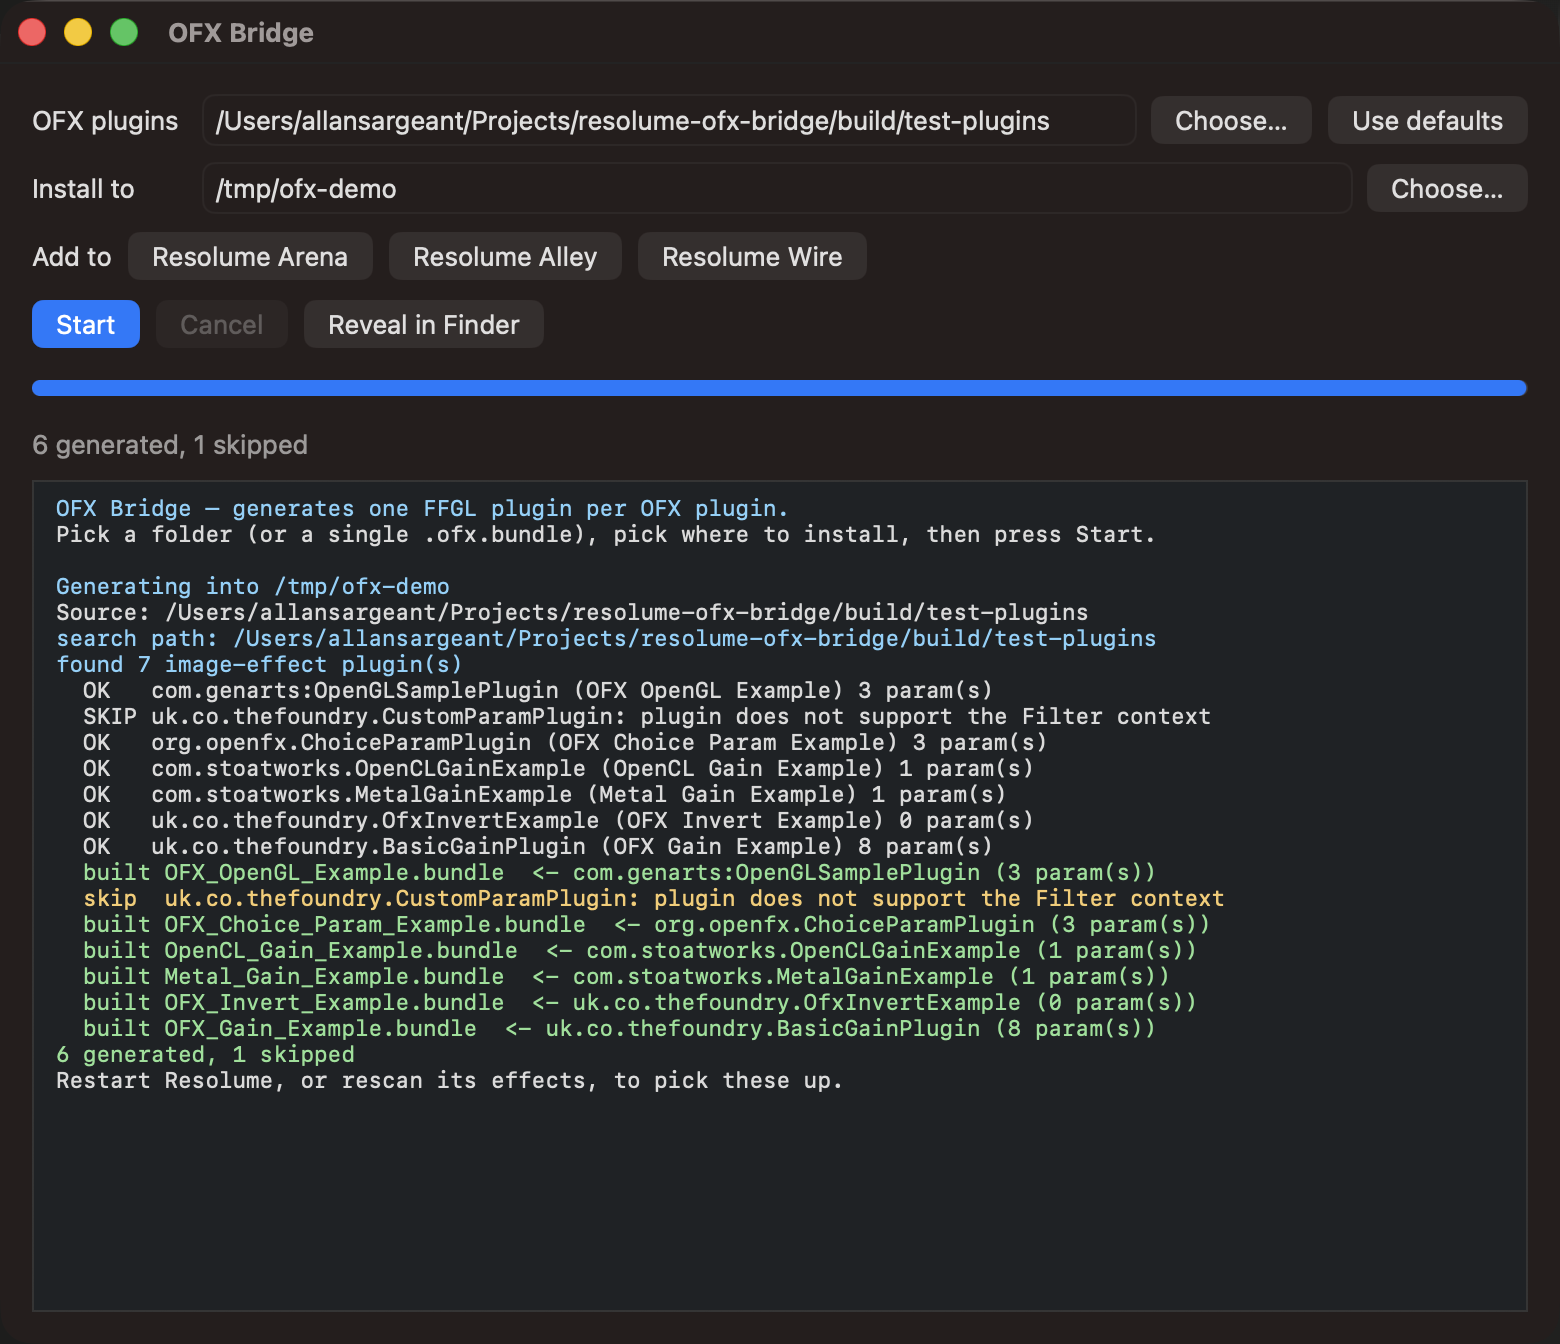
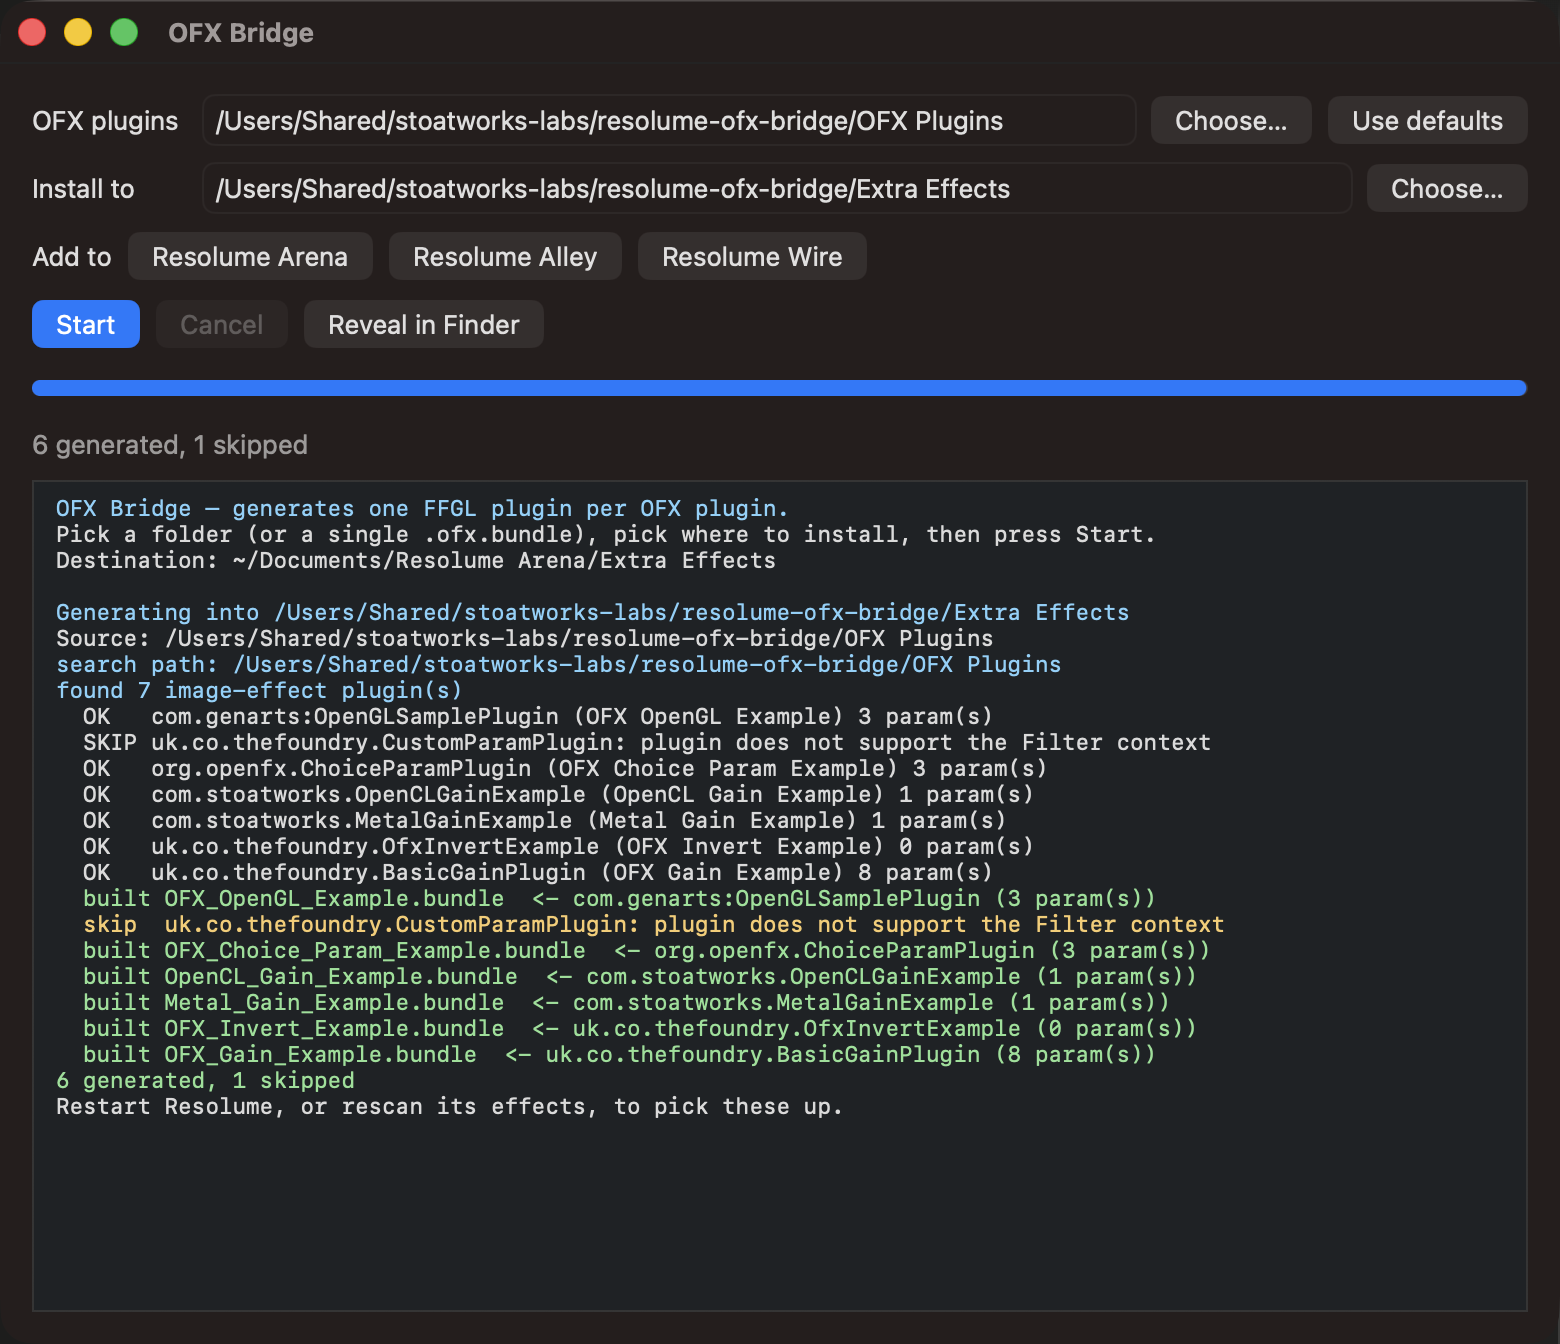
Show home paths as ~ in the app
The window is read over shoulders, screenshotted and filmed, and the
account name does not need to be in any of that -- macOS abbreviates
home paths everywhere else for the same reason. Fields and the app's own
log lines display them abbreviated, and whatever a field holds is
expanded before use, so a hand-typed ~ path works too.

Also retakes the README screenshot from the real binary against a corpus
under /Users/Shared, since the old one had the operator's home directory
in it twice.

Changed region(s): [[0.0308, 0.4062, 0.8, 0.8438], [0.1538, 0.0625, 0.6769, 0.1562]]

diff --git a/source/ui/BridgeWindow.mm b/source/ui/BridgeWindow.mm
@@ -65,6 +65,21 @@ NSString* extraEffectsPath( NSString* product )
 		stringByAppendingPathComponent:[NSString stringWithFormat:@"Documents/Resolume %@/Extra Effects", product]];
 }
 
+/// Paths are shown with `~` for the home directory, as the rest of macOS does.
+/// The field and the log are read over people's shoulders and appear in
+/// screenshots, and the account name is nobody else's business.
+NSString* forDisplay( NSString* path )
+{
+	return [path stringByAbbreviatingWithTildeInPath];
+}
+
+/// The inverse, applied to whatever is in a field before it is used. Typing a
+/// `~` path by hand has to work too, so this is not merely undoing the above.
+NSString* forUse( NSString* path )
+{
+	return [path stringByExpandingTildeInPath];
+}
+
 NSTextField* makeLabel( NSString* text )
 {
 	NSTextField* label                              = [NSTextField labelWithString:text];
@@ -294,7 +309,7 @@ NSTextField* makeLabel( NSString* text )
 	panel.prompt                 = @"Select";
 
 	if( [panel runModal] == NSModalResponseOK )
-		self.sourceField.stringValue = panel.URL.path;
+		self.sourceField.stringValue = forDisplay( panel.URL.path );
 }
 
 - ( void )useDefaultLocations:( id )sender
@@ -317,7 +332,7 @@ NSTextField* makeLabel( NSString* text )
 	panel.prompt                    = @"Select";
 
 	if( [panel runModal] == NSModalResponseOK )
-		self.destField.stringValue = panel.URL.path;
+		self.destField.stringValue = forDisplay( panel.URL.path );
 }
 
 - ( void )useQuickDestination:( NSButton* )sender
@@ -325,7 +340,7 @@ NSTextField* makeLabel( NSString* text )
 	if( sender.tag < 0 || (NSUInteger)sender.tag >= self.quickDestinations.count )
 		return;
 
-	NSString* path             = self.quickDestinations[ (NSUInteger)sender.tag ];
+	NSString* path             = forDisplay( self.quickDestinations[ (NSUInteger)sender.tag ] );
 	self.destField.stringValue = path;
 	[self appendLine:[NSString stringWithFormat:@"Destination: %@", path] kind:LogKind::Info];
 
@@ -341,7 +356,7 @@ NSTextField* makeLabel( NSString* text )
 {
 	NSString* dest = self.destField.stringValue;
 	if( dest.length > 0 )
-		[[NSWorkspace sharedWorkspace] selectFile:nil inFileViewerRootedAtPath:dest];
+		[[NSWorkspace sharedWorkspace] selectFile:nil inFileViewerRootedAtPath:forUse( dest )];
 }
 
 - ( void )cancel:( id )sender
@@ -380,19 +395,24 @@ NSTextField* makeLabel( NSString* text )
 	[[NSUserDefaults standardUserDefaults] setObject:source forKey:kDefaultsSource];
 	[[NSUserDefaults standardUserDefaults] setObject:dest forKey:kDefaultsDest];
 
+	// The fields hold display paths, which may be `~`-relative; everything below
+	// this line works in real ones.
+	NSString* sourcePath = source.length > 0 ? forUse( source ) : @"";
+	NSString* destPath   = forUse( dest );
+
 	ofxgen::Options options;
-	options.outDir       = dest.UTF8String;
+	options.outDir       = destPath.UTF8String;
 	options.templatePath = templatePath.UTF8String;
 
-	if( source.length > 0 )
+	if( sourcePath.length > 0 )
 	{
 		// A .ofx.bundle is a directory, so the open panel hands one back like any
 		// other folder. Scanning it directly finds nothing (the OFX search path is
 		// directory-scoped), so it becomes a filter instead.
-		if( [source hasSuffix:@".ofx.bundle"] || [source hasSuffix:@".ofx"] )
-			options.onlyBundlePath = source.UTF8String;
+		if( [sourcePath hasSuffix:@".ofx.bundle"] || [sourcePath hasSuffix:@".ofx"] )
+			options.onlyBundlePath = sourcePath.UTF8String;
 		else
-			options.searchPaths = { std::string( source.UTF8String ) };
+			options.searchPaths = { std::string( sourcePath.UTF8String ) };
 	}
 
 	[self appendLine:@"" kind:LogKind::Info];

diff --git a/CHANGELOG.md b/CHANGELOG.md
@@ -5,6 +5,15 @@ All notable changes to this project are documented here.
 The format follows [Keep a Changelog](https://keepachangelog.com/en/1.1.0/), and
 this project adheres to [Semantic Versioning](https://semver.org/spec/v2.0.0.html).
 
+## [0.5.1] — 2026-07-31
+
+### Changed
+
+- **Paths are shown with `~` for the home directory**, as the rest of macOS
+  does — in both fields and in the app's own log lines. The window is read over
+  shoulders, screenshotted and filmed; the account name does not need to be in
+  any of that. Typing a `~` path by hand works too.
+
 ## [0.5.0] — 2026-07-31
 
 ### Added
@@ -171,6 +180,7 @@ harnesses in this repo, but never loaded into Resolume itself.
 - `createEffect` loads every bundle in the target's directory, because
   HostSupport's `addFileToPath` is directory-scoped.
 
+[0.5.1]: https://github.com/stoatworks-labs/resolume-ofx-bridge/releases/tag/v0.5.1
 [0.5.0]: https://github.com/stoatworks-labs/resolume-ofx-bridge/releases/tag/v0.5.0
 [0.4.0]: https://github.com/stoatworks-labs/resolume-ofx-bridge/releases/tag/v0.4.0
 [0.3.1]: https://github.com/stoatworks-labs/resolume-ofx-bridge/releases/tag/v0.3.1
